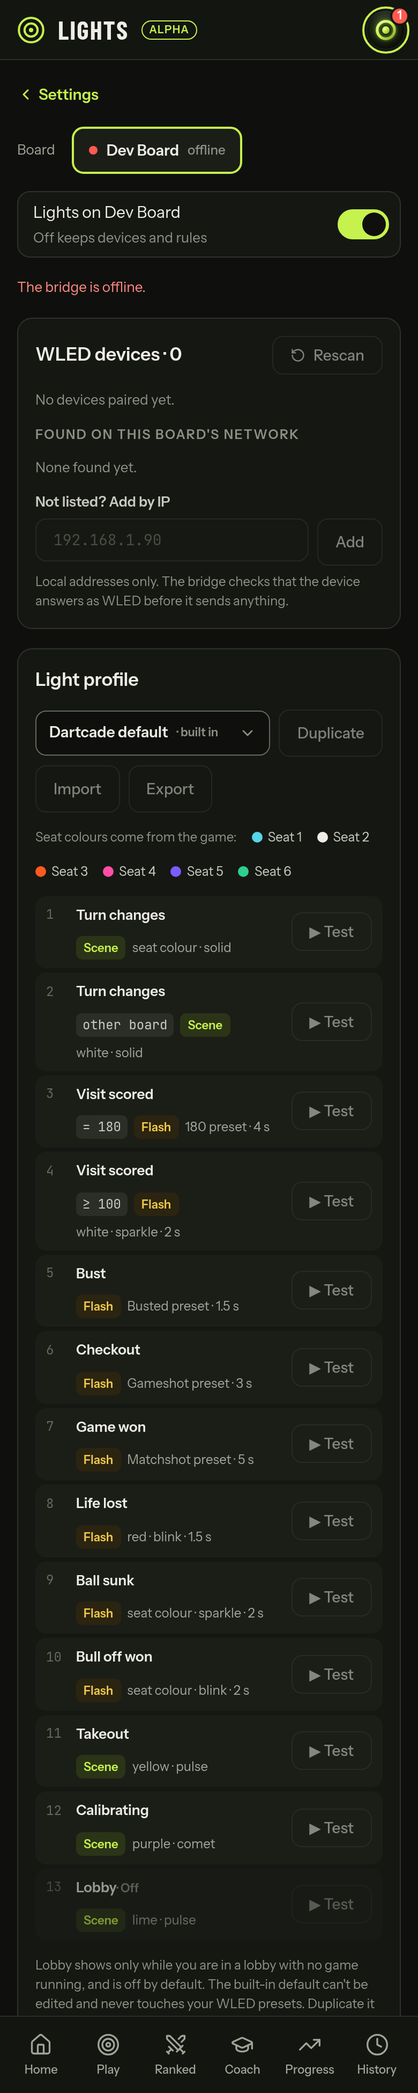
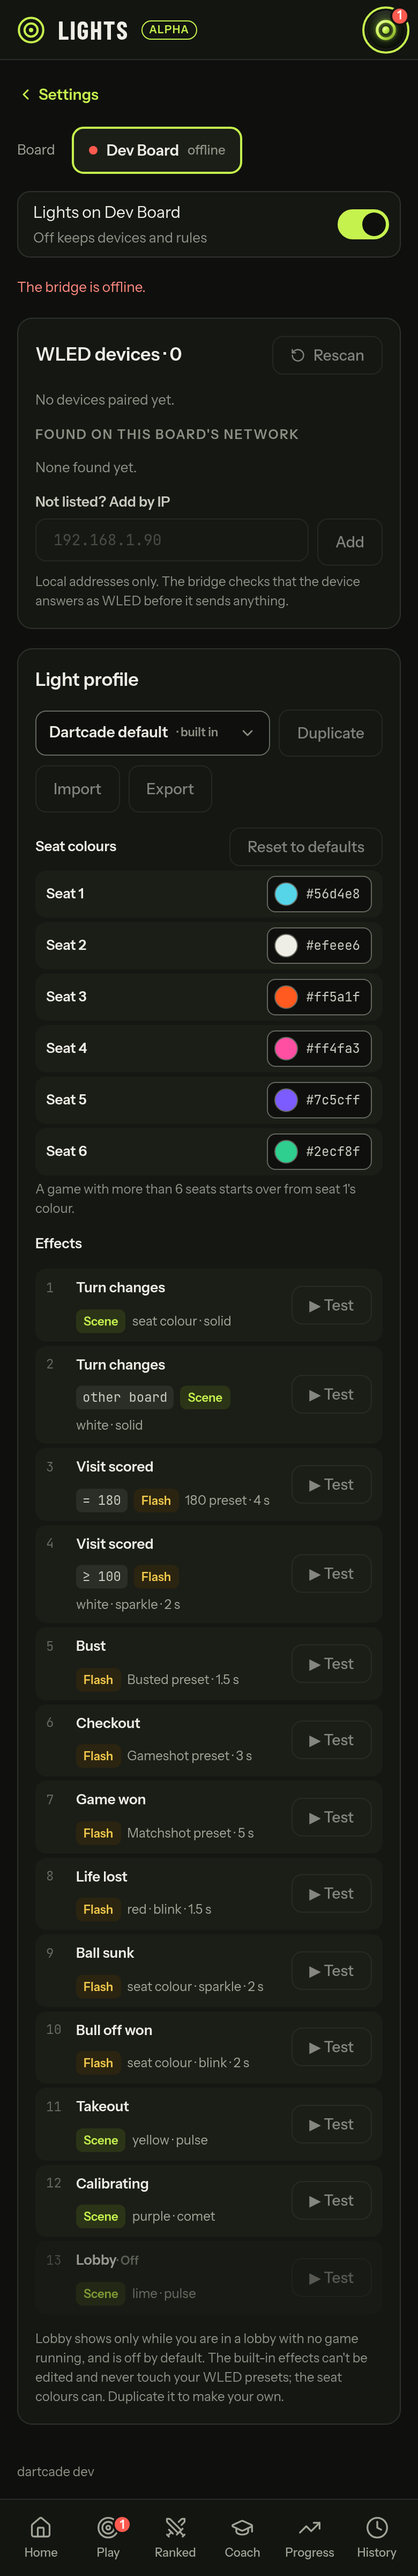
docs(lights): seat colours spec, AGENTS row and screenshots

diff --git a/e2e/screenshots/19-lights.spec.ts b/e2e/screenshots/19-lights.spec.ts
@@ -1,15 +1,30 @@
 import { test, expect } from '@playwright/test'
 import { open, shot } from './helpers.js'
 
-test('lights profile', async ({ browser }) => {
-  for (const [view, name] of [
-    [{ width: 1440, height: 1250, scale: 2 }, 'desktop'],
-    [{ width: 390, height: 1950, scale: 2 }, 'phone'],
-  ] as const) {
+const VIEWS = [
+  [{ width: 1440, height: 1750, scale: 2 }, 'desktop'],
+  [{ width: 390, height: 2400, scale: 2 }, 'phone'],
+] as const
+
+test('lights profile: the seat colours group on top, a seat colour picker, a saved colour', async ({ browser }) => {
+  for (const [view, name] of VIEWS) {
     const { ctx, page } = await open(browser, 'admin', view)
     await page.goto('/#/settings/lights')
     await expect(page.getByRole('region', { name: 'Light profile' })).toBeVisible()
     await shot(page, `lights/profile-${name}.png`)
+
+    await page.getByRole('button', { name: /^Seat 3 colour: orange/ }).click()
+    await expect(page.getByRole('radiogroup', { name: 'Seat 3 colour' })).toBeVisible()
+    await shot(page, `lights/picker-${name}.png`)
+
+    await page.getByRole('radio', { name: 'blue' }).click()
+    await expect(page.getByRole('button', { name: /^Seat 3 colour: blue/ })).toBeVisible()
+    await page.reload()
+    await expect(page.getByRole('button', { name: /^Seat 3 colour: blue/ })).toBeVisible()
+    await shot(page, `lights/edited-${name}.png`)
+
+    await page.getByRole('button', { name: 'Reset to defaults' }).click()
+    await expect(page.getByRole('button', { name: /^Seat 3 colour: orange/ })).toBeVisible()
     await ctx.close()
   }
 })

diff --git a/AGENTS.md b/AGENTS.md
@@ -78,7 +78,7 @@ corrected dart replays the open visit cleanly.
 | Settings page and the caller | `backend/frontend/src/routes/Settings.svelte` (sections at `#/settings/<section>`, listed in `lib/settings/sections.ts`), its cards in `lib/components/settings/` (`YourCard`: your profile card and the Customise link, `NameCard`, `AccountCard`, `GamePrefs`, `CallerVoices`, `CallerDefaults`, `VoiceSelect`); settings in `lib/gameSettings.ts` (cached per device), the account-wide ones (`ACCOUNT_KEYS`) synced by `lib/accountSettings.ts` through `GET`/`PUT /api/me/preferences` (`api/me.ts`, the `user.preferences` column); the Boards section is `lib/components/boards/BoardsSection.svelte` (`#/boards` redirects there); what the caller says (checkout calls: `checkoutFor`, `requirePart`), its voices and the player in `lib/caller/` (`calls.ts`, `voices.ts`, `player.ts`); voice packs on the server in `backend/src/caller/` (`autodarts.ts` cuts an Autodarts voice MP3 by its timing table, behind `caller.autodartsImport`; the bookmarklet that fetches them is `lib/caller/autodartsVoices.js`, turned into a link in `lib/caller/bookmarklet.ts`), their API in `backend/src/api/voices.ts` (rename: `PATCH /api/voice-packs/{id}`, `renameVoicePack` in `lib/caller/voices.ts`); the play buttons for sounds and samples are `lib/components/PreviewButton.svelte`; a pack's details page (every sound the caller can use, a preview of those the pack has) is `routes/VoicePackDetails.svelte` with the list in `lib/caller/catalogue.ts`, behind `caller.packDetails` |
 | Profile pictures: the Dartcade mark in two layers (foreground, background), each one of twenty finishes | `backend/src/shared/avatarFinishes.ts` (the list), rewards `picture.<id>` in `shared/progression.ts` `PERKS`; `user.avatar_preset` (foreground) / `avatar_background` (migration `038`), `setAvatar` in `db/users.ts`, `PATCH /api/me`; art: one standalone SVG per layer, `backend/frontend/src/lib/assets/finishes/<id>/{foreground,background}.svg` (short local ids; add a finish with a folder holding both files plus an `AVATAR_FINISHES` entry), assembled into one sprite of `finish-fg-<id>`/`finish-bg-<id>` symbols at build time by `lib/assets/finishes.ts` (ids prefixed `<id>-<fg|bg>-`), inlined once by `FinishSprite.svelte` (in `App.svelte`), drawn by `FinishPicture.svelte` (one layer or both) inside `Avatar.svelte`; `lib/progress/pictures.ts` (`wearPicture`, `finishAvatar`); picked only on Customise (`routes/Customise.svelte`); initials (`none`) and photos (`upload`, `POST /api/me/avatar`, `avatar.upload.enabled`) still render but have no UI for now |
 | Customise your card (picture layers, frame, banner, colours and name style, title, sounds, celebrations): a draft saved together | `#/profile/customise/:tab` (`routes/Customise.svelte`, one route so tabs keep the draft; the Profile page's and Settings → Profile's Customise buttons link here); tabs, draft diffing (`equipChanges`, `pictureChanged`), Hide locked in `lib/progress/customise.ts`; tiles `lib/components/progress/CustomiseTile.svelte`; saves through `equip` (`lib/progress/equip.ts`) and `wearPicture` |
-| Lights (WLED): triggers from game snapshots, the built-in profile, devices per board | rules and patches in `backend/src/shared/lights/` (shared with the frontend), triggers per game in `backend/src/lights/triggers/`, `backend/src/lights/service.ts` (sends `wled.apply` to the bridge), reports in `lights/store.ts`, `db/lights.ts`, API in `api/lights.ts`; bridge side `bridge/internal/wled` (allowlist, queue, flash/restore, mDNS; refuses loopback addresses unless `DARTCADE_WLED_ALLOW_LOOPBACK=1`); frontend `lib/components/lights/`, `lib/lights/`; behind `lights.enabled`; spec `docs/superpowers/specs/2026-10-18-wled-lights-design.md`, plan `docs/superpowers/plans/2026-10-18-wled-lights.md` |
+| Lights (WLED): triggers from game snapshots, the built-in profile, devices per board | rules and patches in `backend/src/shared/lights/` (shared with the frontend), triggers per game in `backend/src/lights/triggers/`, `backend/src/lights/service.ts` (sends `wled.apply` to the bridge), reports in `lights/store.ts`, `db/lights.ts`, API in `api/lights.ts`; a profile's `seatColors` (six `#rrggbb`, wrapping past seat 6 via `seatColor`; `DEFAULT_SEAT_COLORS` in `shared/lights/profile.ts`) are the board's own in `boards.light_seat_colors` (migration `061`, `PUT`/`DELETE …/lights/seat-colors`), edited in the card's Seat colours group (`SeatColorPicker.svelte`, `lib/lights/seatColors.ts`) and never part of device data; bridge side `bridge/internal/wled` (allowlist, queue, flash/restore, mDNS; refuses loopback addresses unless `DARTCADE_WLED_ALLOW_LOOPBACK=1`); frontend `lib/components/lights/`, `lib/lights/`; behind `lights.enabled`; spec `docs/superpowers/specs/2026-10-18-wled-lights-design.md`, plan `docs/superpowers/plans/2026-10-18-wled-lights.md` |
 | Big screen: a view-only, distance-readable game display for the board's screen (idle, live, held result), started on the board machine by a user-session helper | page `backend/frontend/src/routes/BigScreen.svelte` (`#/big-screen/<boardId>`), `lib/bigscreen/`, `lib/components/bigscreen/`; what it shows is the match screen's own components, view only (`MatchScreen`, so every mode, then `WinScreen`, ... with the derivations in `lib/matchView.ts`, shared with `GameDisplay.svelte`), drawn in a same-origin iframe 1.25 times smaller than the stage and scaled up (`MatchFrame.svelte` posts the state to `routes/BigScreenFrame.svelte`, `#/big-screen-frame`; `lib/bigscreen/frame.ts`); socket `/ws/board` in `backend/src/browser-gw/bigScreen.ts` (messages in `schema/board-ws-v1.json`), `backend/src/bigscreen/service.ts` (follows `engine.getSessionByBoard`, holds a finished game from the `ended` hook, polls the board's Board Manager status every 3 s while someone follows it, via `boards/bmState.ts`, for the header's status dot), the running state and the open command in `backend/src/boards/{bigScreenState,bigScreenOpen}.ts` (the bridge's `bigscreen.status` branch is in `backend/src/bridge-gw/handler.ts`); API in `backend/src/api/boards.ts` (`PATCH /api/boards/{id}/big-screen`, `POST …/big-screen/start\|stop`); buttons and setting: `BoardStatusPanel.svelte`, `SettingsDrawer.svelte`, `BoardsSection.svelte` (its Big screen section is `boards/BigScreenSetup.svelte`: monitor switch, Manual / Always on, status, button), `bigScreenButton` in `lib/boards.ts`; bridge `bridge/internal/bigscreen` (forwarder, helper, registration); behind `bigscreen.enabled`; spec `docs/superpowers/specs/2026-10-27-big-screen-design.md` |
 | Home (`#/`, where signing in lands; `#/play` is the Play page): your form, ranked, featured banners, friends' lobbies, friend activity, what's new, jump back in | `backend/frontend/src/routes/Home.svelte` (`Root.svelte` picks it or the Play page by `home.enabled`, on for everyone), cards in `lib/components/home/`, text and rules in `lib/home/` (`view.ts`, `loader.svelte.ts`; Featured and What's new are hand-edited lists in `featured.ts` and `news.ts`, each item behind the flag of what it advertises). Friends' lobbies: `GET /api/home/lobbies` (`api/home.ts`, `db/homeLobbies.ts`). Friend activity: `GET /api/home/activity`, table `friend_activity` (migration `043`), written at game finish by `finishGameSession` and on a stage climb by `recordRankedResult` through `activity/events.ts` (`one_eighty`, `ton_out` from X01's `count180`/`tonOuts` seat stats, `rank_up`), deleted with an invalidated game, pruned after 30 days in `index.ts`; `db/activity.ts`. Left out because the data does not exist: rank in country, Watch, customizing; design in `docs/superpowers/specs/2026-10-27-home-page-design.md`, screenshots in `docs/home/` |
 | Line charts (layerchart `Chart` + `Spline`): a vertical rule at every x with a point, whole-number visit ticks | `lib/charts/grid.ts` (`chartGrid`, `integerTicks`, `xPositions`); every line chart passes its x positions to it: `components/details/{RemainingChart,RaceChart}.svelte`, `stats/LineChart.svelte`, `p121/P121TriesChart.svelte`, `home/AverageSpark.svelte`; screenshots `docs/chart-grid/` |

diff --git a/docs/superpowers/specs/2026-10-18-wled-lights-design.md b/docs/superpowers/specs/2026-10-18-wled-lights-design.md
@@ -120,7 +120,7 @@ type Profile = { id: 'default'; name: string; rules: Rule[] }
     every segment with the look.
   - `wled`: as `perSeat`, but seat _i_ is the device's existing segment _i_ (segments beyond the device's
     count are skipped).
-- `SEAT_COLORS = ['#56d4e8', '#efeee6', '#ff5a1f', '#ff4fa3', '#7c5cff', '#2ecf8f']` (six seats, checked for colour blindness and for distance from the takeout yellow), cycled for seats 7+.
+- `DEFAULT_SEAT_COLORS = ['#56d4e8', '#efeee6', '#ff5a1f', '#ff4fa3', '#7c5cff', '#2ecf8f']` (six seats, checked for colour blindness and for distance from the takeout yellow). A profile has `seatColors`, one `#rrggbb` per seat; a seat past the last colour wraps around (`seatColor(seat, colors)`: seat 7 gets seat 1's colour). A board can set its own six (below); they are never part of a device's data.
   `team` uses the team's first seat's colour.
 
 **Dartcade default** (WLED effect IDs: 0 Solid, 1 Blink, 2 Breathe, 9 Rainbow, 20 Sparkle, 41 Lighthouse, 42 Fireworks):
@@ -177,6 +177,7 @@ A won X01 match plays only the game.won look, on the winning dart.
   `version`, `segments`, `segment_mode` (`whole` | `perSeat` | `wled`), `max_bri` (1–255, default 178 = 70%),
   `created_at`; unique `(board_id, mac)`.
 - `boards.lights_enabled boolean not null default true`.
+- `boards.light_seat_colors jsonb` (migration 061): the board's six seat colours, null for the built-in ones. Only the built-in profile exists, so this is the one editable part of it; with stored profiles (duplicate, part 4 of #522) the colours move into the profile.
 - Found devices and live status: in memory per board (`backend/src/lights/store.ts`), like the camera
   store.
 
@@ -186,6 +187,7 @@ Under `/api/boards/{id}/lights`:
 
 - `GET` → `{enabled, bridgeOnline, bridgeOutdated, devices: [device + {reachable, error?}], found: [...], lastScanAt, profile}`
 - `PUT` `{enabled}`
+- `PUT seat-colors {seatColors: [six #rrggbb]}` (stored lower case; 400 for any other count or format), `DELETE seat-colors` (back to the built-in colours). Both resend the scene, so the strip shows the change at once.
 - `POST scan`, `POST probe {host}`, `POST blink {host} | {deviceId}`
 - `POST devices {mac, host, name, segment_mode, max_bri}` (the MAC must be in `found`), `PATCH devices/{deviceId}`, `DELETE devices/{deviceId}`
 - `POST test {rule: number}`: plays that default-profile rule as a flash (scenes too, held 3 s) for
@@ -211,7 +213,9 @@ The page re-fetches `GET` every 3 s while it's open.
 - **Found on this board's network:** unpaired found devices, "Scanning · x min ago", **Rescan**, **Pair**;
   "On <board>" for devices paired elsewhere. **Add by IP** below, with an inline error ("No WLED answered
   at 192.168.1.80").
-- **Light profile:** "Dartcade default · built in", seat colour swatches, the numbered read-only rule list
+- **Light profile:** "Dartcade default · built in". A **Seat colours** group on top of the list: one row per
+  seat with its swatch and a picker (a bits-ui popover with a palette as a radio group plus a custom
+  colour field), and **Reset to defaults**. Below it **Effects**: the numbered read-only rule list
   (trigger, filter, Scene/Flash, look summary, an "Off" mark on a disabled rule) with **▶ Test**. Duplicate, Import, Export shown disabled
   ("Coming soon").
 - **Pair dialog** (`ui/modal`): (1) blink check: "Blinking lime now", Blink again, "Yes, it blinked" /
